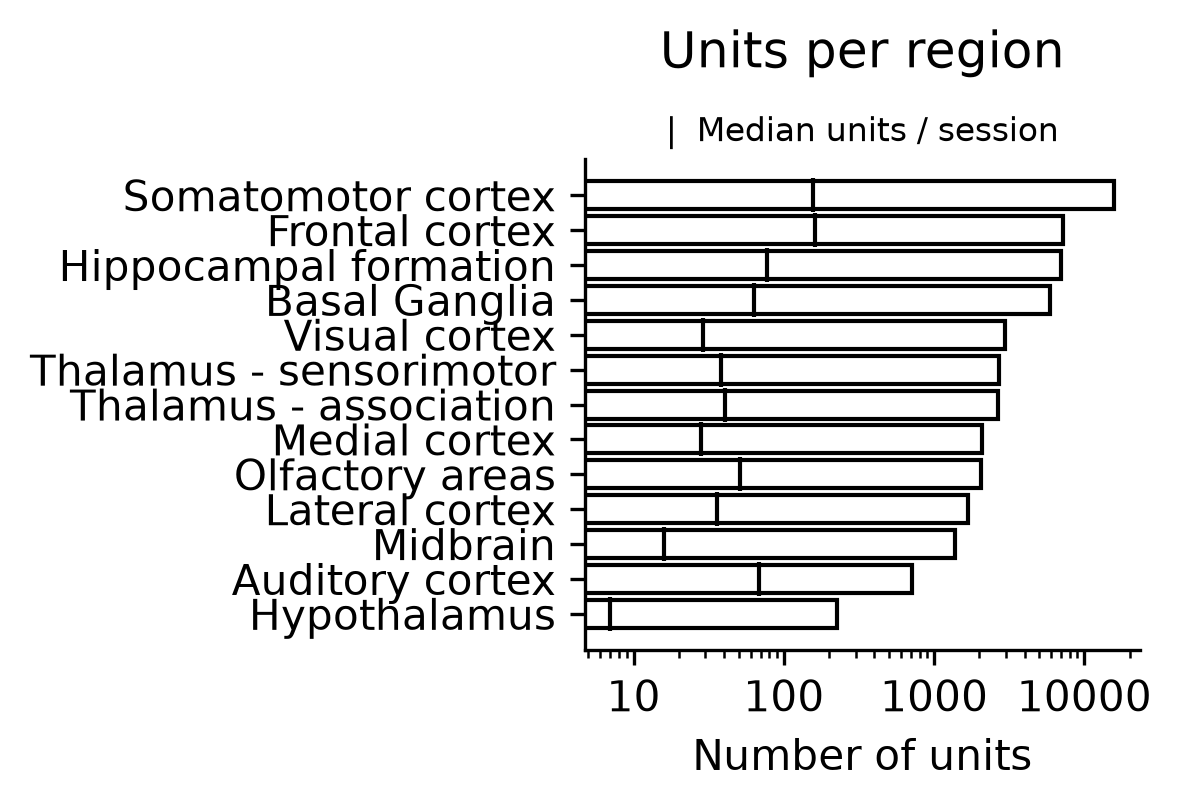
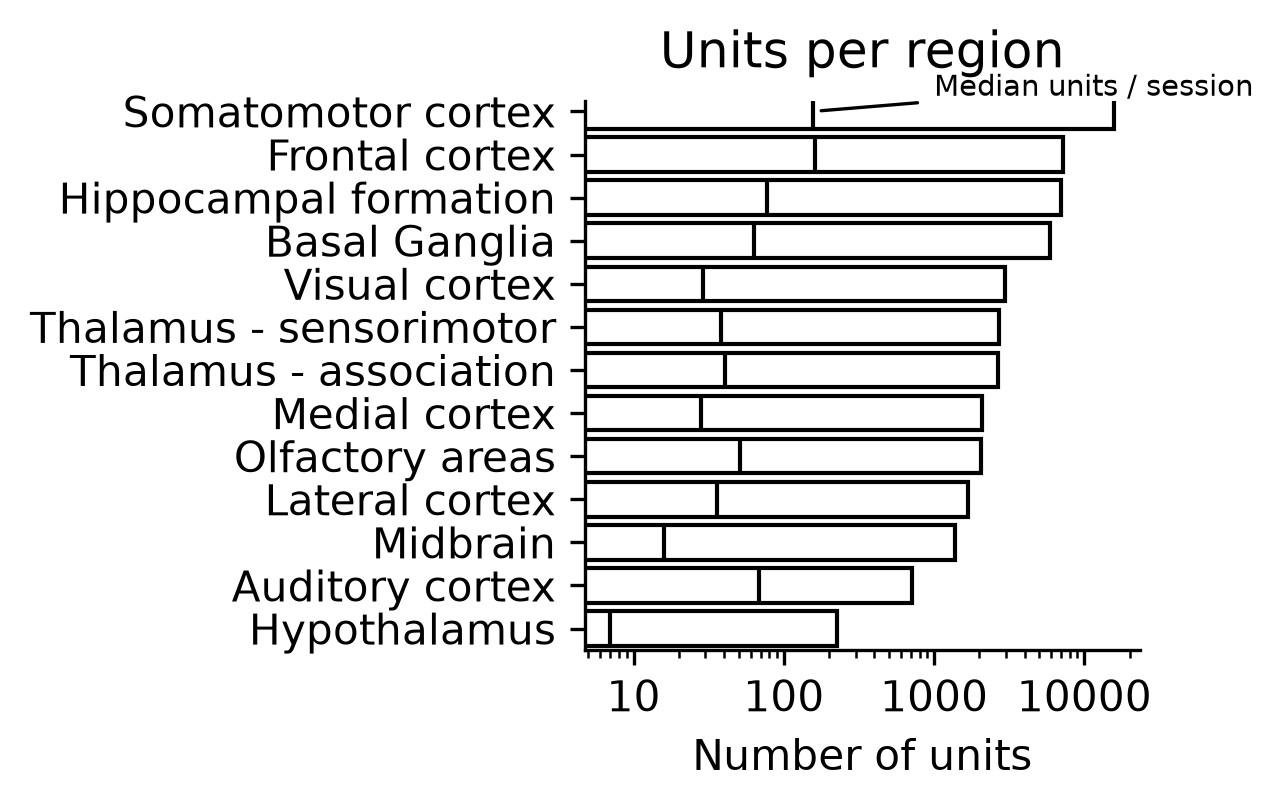
Point median annotation to top bar

Changed region(s): [[0.0305, 0.0309, 0.9754, 0.9568]]

diff --git a/figures/fig1/recorded-regions/marimo_nb.py b/figures/fig1/recorded-regions/marimo_nb.py
@@ -142,21 +142,24 @@ def _(group_colors, group_order, pl, results_dir, units, plt):
         markeredgewidth=1,
     )
     ax.set_xlabel("Number of units")
-    ax.set_title("Units per region", pad=22)
-    ax.text(
-        0.5,
-        1.02,
-        "|  Median units / session",
-        transform=ax.transAxes,
-        ha="center",
-        va="bottom",
-        fontsize=8,
-    )
+    ax.set_title("Units per region", pad=8)
     ax.set_xscale("log")
     ax.set_xticks([10, 100, 1000, 10000])
     ax.set_xticklabels(["10", "100", "1000", "10000"])
     ax.spines["top"].set_visible(False)
     ax.spines["right"].set_visible(False)
+    top_bar_y = len(labels) - 1
+    ax.set_ylim(-0.5, top_bar_y + 0.25)
+    ax.annotate(
+        "Median units / session",
+        xy=(units_per_region["median_units_per_session"][-1], top_bar_y),
+        xytext=(1000, top_bar_y + 0.2),
+        ha="left",
+        va="bottom",
+        fontsize=7,
+        arrowprops={"arrowstyle": "-", "color": "black", "lw": 0.8},
+        annotation_clip=False,
+    )
     fig.tight_layout()
     fig.savefig(results_dir / "units-per-region.svg", bbox_inches="tight")
     fig.savefig(
